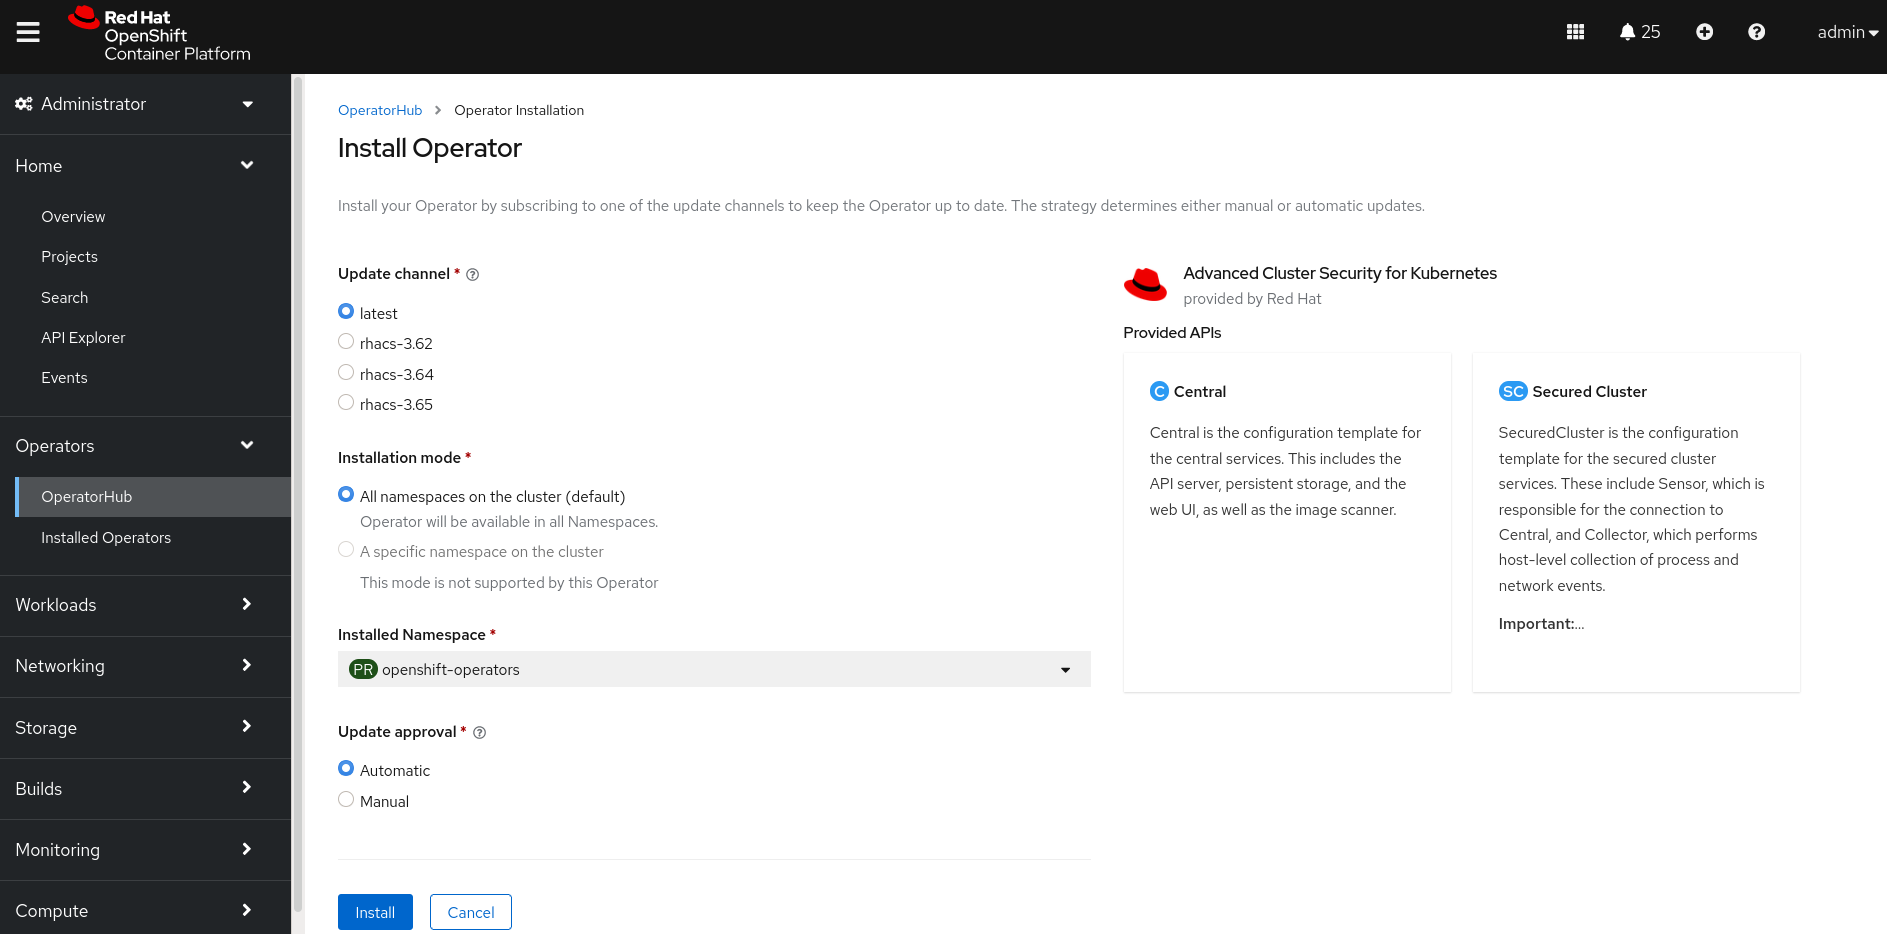
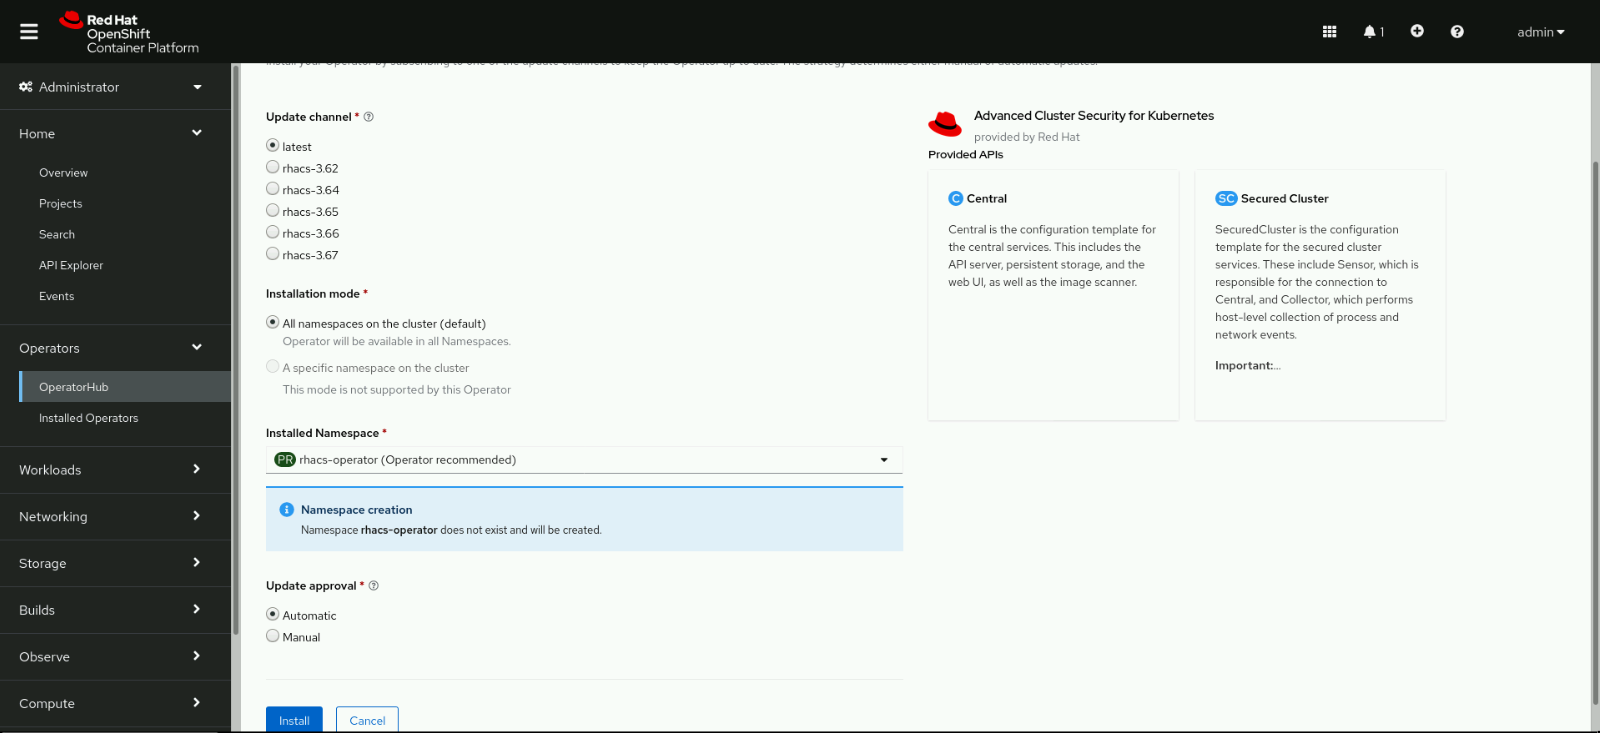
[CI] Publish Documentation for c5e71084bd609db6a1b882b1e408db1a4f43fe07 - c5e71084bd609db6a1b882b1e408db1a4f43fe07 🚀

diff --git a/acs-workshop/02-getting_started.html b/acs-workshop/02-getting_started.html
@@ -7,7 +7,7 @@
     <link rel="canonical" href="https://redhat-scholars.github.io/acs-workshop/acs-workshop/02-getting_started.html">
     <link rel="prev" href="01-setup.html">
     <link rel="next" href="03-overview-acs.html">
-    <meta name="generator" content="Antora 2.3.4">
+    <meta name="generator" content="Antora 3.0.0">
     <link rel="stylesheet" href="../_/css/site.css">
 <link rel="icon" href="../_/img/favicon.ico" type="image/x-icon">
 <link rel="stylesheet" href="https://cdnjs.cloudflare.com/ajax/libs/font-awesome/4.7.0/css/font-awesome.min.css">
@@ -334,7 +334,7 @@
     <li class="component is-current">
       <span class="title">ACS Workshop</span>
       <ul class="versions">
-        <li class="version is-current is-latest">
+        <li class="version is-current">
           <a href="index.html">master</a>
         </li>
       </ul>
@@ -428,7 +428,7 @@ Independently on how you&#8217;re installing, please deploy the deploy in the la
 </div>
 </li>
 <li>
-<p>Confirm default installation parameters (auto update, latest channel, <code>openshift-operators</code> namespace).</p>
+<p>Confirm default installation parameters (auto update, <code>latest channel</code>, <code>rhacs-operator</code> namespace).</p>
 <div class="imageblock">
 <div class="content">
 <img src="_images/install/02_install_acs_operator.png" alt="ACS Operator 3" width="800">
@@ -472,7 +472,7 @@ Independently on how you&#8217;re installing, please deploy the deploy in the la
 </ul>
 </div>
 <div class="paragraph">
-<p>Create a new <code>stackrox</code> namespace (using the web console or the cli as follows). We will install our components here.</p>
+<p>Log in to your OpenShift cluster and create a new <code>stackrox</code> namespace (using the web console or the cli as follows). We will install our components here.</p>
 </div>
 <div class="listingblock console-input">
 <div class="content">
@@ -596,7 +596,7 @@ spec:
 <div class="olist arabic">
 <ol class="arabic">
 <li>
-<p>Once the installation is complete obtain the generated admin password from the <code>central-htpasswd</code> secret.</p>
+<p>Once the installation is complete, obtain and copy the generated admin password from the <code>central-htpasswd</code> secret.</p>
 <div class="olist loweralpha">
 <ol class="loweralpha" type="a">
 <li>
@@ -643,7 +643,7 @@ spec:
 <h2 id="config_acs_securedcluster"><a class="anchor" href="#config_acs_securedcluster"></a>ACS Secured Cluster Configuration</h2>
 <div class="sectionbody">
 <div class="paragraph">
-<p>To join a cluster to ACS it is necessary to generate a cluster init bundle containing TLS secrets for Sensor, Collectors and Admission Controllers.</p>
+<p>To import a cluster into ACS, you need to generate a cluster init bundle containing TLS secrets for Sensor, Collectors, and Admission Controllers.</p>
 </div>
 <div class="sect2">
 <h3 id="config_acs_securedcluster_init_bundle"><a class="anchor" href="#config_acs_securedcluster_init_bundle"></a>Generating an init bundle by using the RHACS portal</h3>

diff --git a/acs-workshop/index.html b/acs-workshop/index.html
@@ -6,7 +6,7 @@
     <title>Welcome to Red Hat Advanced Cluster Security Workshop :: ACS Workshop</title>
     <link rel="canonical" href="https://redhat-scholars.github.io/acs-workshop/acs-workshop/index.html">
     <link rel="next" href="01-setup.html">
-    <meta name="generator" content="Antora 2.3.4">
+    <meta name="generator" content="Antora 3.0.0">
     <link rel="stylesheet" href="../_/css/site.css">
 <link rel="icon" href="../_/img/favicon.ico" type="image/x-icon">
 <link rel="stylesheet" href="https://cdnjs.cloudflare.com/ajax/libs/font-awesome/4.7.0/css/font-awesome.min.css">
@@ -333,7 +333,7 @@
     <li class="component is-current">
       <span class="title">ACS Workshop</span>
       <ul class="versions">
-        <li class="version is-current is-latest">
+        <li class="version is-current">
           <a href="index.html">master</a>
         </li>
       </ul>

diff --git a/acs-workshop/10-system_policies.html b/acs-workshop/10-system_policies.html
@@ -7,7 +7,7 @@
     <link rel="canonical" href="https://redhat-scholars.github.io/acs-workshop/acs-workshop/10-system_policies.html">
     <link rel="prev" href="09-configuration_management.html">
     <link rel="next" href="11-integrations.html">
-    <meta name="generator" content="Antora 2.3.4">
+    <meta name="generator" content="Antora 3.0.0">
     <link rel="stylesheet" href="../_/css/site.css">
 <link rel="icon" href="../_/img/favicon.ico" type="image/x-icon">
 <link rel="stylesheet" href="https://cdnjs.cloudflare.com/ajax/libs/font-awesome/4.7.0/css/font-awesome.min.css">
@@ -334,7 +334,7 @@
     <li class="component is-current">
       <span class="title">ACS Workshop</span>
       <ul class="versions">
-        <li class="version is-current is-latest">
+        <li class="version is-current">
           <a href="index.html">master</a>
         </li>
       </ul>

diff --git a/acs-workshop/09-configuration_management.html b/acs-workshop/09-configuration_management.html
@@ -7,7 +7,7 @@
     <link rel="canonical" href="https://redhat-scholars.github.io/acs-workshop/acs-workshop/09-configuration_management.html">
     <link rel="prev" href="08-compliance.html">
     <link rel="next" href="10-system_policies.html">
-    <meta name="generator" content="Antora 2.3.4">
+    <meta name="generator" content="Antora 3.0.0">
     <link rel="stylesheet" href="../_/css/site.css">
 <link rel="icon" href="../_/img/favicon.ico" type="image/x-icon">
 <link rel="stylesheet" href="https://cdnjs.cloudflare.com/ajax/libs/font-awesome/4.7.0/css/font-awesome.min.css">
@@ -334,7 +334,7 @@
     <li class="component is-current">
       <span class="title">ACS Workshop</span>
       <ul class="versions">
-        <li class="version is-current is-latest">
+        <li class="version is-current">
           <a href="index.html">master</a>
         </li>
       </ul>

diff --git a/acs-workshop/11-integrations.html b/acs-workshop/11-integrations.html
@@ -7,7 +7,7 @@
     <link rel="canonical" href="https://redhat-scholars.github.io/acs-workshop/acs-workshop/11-integrations.html">
     <link rel="prev" href="10-system_policies.html">
     <link rel="next" href="12-platform_configuration.html">
-    <meta name="generator" content="Antora 2.3.4">
+    <meta name="generator" content="Antora 3.0.0">
     <link rel="stylesheet" href="../_/css/site.css">
 <link rel="icon" href="../_/img/favicon.ico" type="image/x-icon">
 <link rel="stylesheet" href="https://cdnjs.cloudflare.com/ajax/libs/font-awesome/4.7.0/css/font-awesome.min.css">
@@ -334,7 +334,7 @@
     <li class="component is-current">
       <span class="title">ACS Workshop</span>
       <ul class="versions">
-        <li class="version is-current is-latest">
+        <li class="version is-current">
           <a href="index.html">master</a>
         </li>
       </ul>

diff --git a/acs-workshop/08-compliance.html b/acs-workshop/08-compliance.html
@@ -7,7 +7,7 @@
     <link rel="canonical" href="https://redhat-scholars.github.io/acs-workshop/acs-workshop/08-compliance.html">
     <link rel="prev" href="07-violations.html">
     <link rel="next" href="09-configuration_management.html">
-    <meta name="generator" content="Antora 2.3.4">
+    <meta name="generator" content="Antora 3.0.0">
     <link rel="stylesheet" href="../_/css/site.css">
 <link rel="icon" href="../_/img/favicon.ico" type="image/x-icon">
 <link rel="stylesheet" href="https://cdnjs.cloudflare.com/ajax/libs/font-awesome/4.7.0/css/font-awesome.min.css">
@@ -334,7 +334,7 @@
     <li class="component is-current">
       <span class="title">ACS Workshop</span>
       <ul class="versions">
-        <li class="version is-current is-latest">
+        <li class="version is-current">
           <a href="index.html">master</a>
         </li>
       </ul>

diff --git a/acs-workshop/03-overview-acs.html b/acs-workshop/03-overview-acs.html
@@ -7,7 +7,7 @@
     <link rel="canonical" href="https://redhat-scholars.github.io/acs-workshop/acs-workshop/03-overview-acs.html">
     <link rel="prev" href="02-getting_started.html">
     <link rel="next" href="04-vulnerabilities.html">
-    <meta name="generator" content="Antora 2.3.4">
+    <meta name="generator" content="Antora 3.0.0">
     <link rel="stylesheet" href="../_/css/site.css">
 <link rel="icon" href="../_/img/favicon.ico" type="image/x-icon">
 <link rel="stylesheet" href="https://cdnjs.cloudflare.com/ajax/libs/font-awesome/4.7.0/css/font-awesome.min.css">
@@ -334,7 +334,7 @@
     <li class="component is-current">
       <span class="title">ACS Workshop</span>
       <ul class="versions">
-        <li class="version is-current is-latest">
+        <li class="version is-current">
           <a href="index.html">master</a>
         </li>
       </ul>

diff --git a/acs-workshop/12-platform_configuration.html b/acs-workshop/12-platform_configuration.html
@@ -7,7 +7,7 @@
     <link rel="canonical" href="https://redhat-scholars.github.io/acs-workshop/acs-workshop/12-platform_configuration.html">
     <link rel="prev" href="11-integrations.html">
     <link rel="next" href="13-cicd.html">
-    <meta name="generator" content="Antora 2.3.4">
+    <meta name="generator" content="Antora 3.0.0">
     <link rel="stylesheet" href="../_/css/site.css">
 <link rel="icon" href="../_/img/favicon.ico" type="image/x-icon">
 <link rel="stylesheet" href="https://cdnjs.cloudflare.com/ajax/libs/font-awesome/4.7.0/css/font-awesome.min.css">
@@ -334,7 +334,7 @@
     <li class="component is-current">
       <span class="title">ACS Workshop</span>
       <ul class="versions">
-        <li class="version is-current is-latest">
+        <li class="version is-current">
           <a href="index.html">master</a>
         </li>
       </ul>

diff --git a/acs-workshop/07-violations.html b/acs-workshop/07-violations.html
@@ -7,7 +7,7 @@
     <link rel="canonical" href="https://redhat-scholars.github.io/acs-workshop/acs-workshop/07-violations.html">
     <link rel="prev" href="06-network_graph.html">
     <link rel="next" href="08-compliance.html">
-    <meta name="generator" content="Antora 2.3.4">
+    <meta name="generator" content="Antora 3.0.0">
     <link rel="stylesheet" href="../_/css/site.css">
 <link rel="icon" href="../_/img/favicon.ico" type="image/x-icon">
 <link rel="stylesheet" href="https://cdnjs.cloudflare.com/ajax/libs/font-awesome/4.7.0/css/font-awesome.min.css">
@@ -334,7 +334,7 @@
     <li class="component is-current">
       <span class="title">ACS Workshop</span>
       <ul class="versions">
-        <li class="version is-current is-latest">
+        <li class="version is-current">
           <a href="index.html">master</a>
         </li>
       </ul>

diff --git a/acs-workshop/05-risk.html b/acs-workshop/05-risk.html
@@ -7,7 +7,7 @@
     <link rel="canonical" href="https://redhat-scholars.github.io/acs-workshop/acs-workshop/05-risk.html">
     <link rel="prev" href="04-vulnerabilities.html">
     <link rel="next" href="06-network_graph.html">
-    <meta name="generator" content="Antora 2.3.4">
+    <meta name="generator" content="Antora 3.0.0">
     <link rel="stylesheet" href="../_/css/site.css">
 <link rel="icon" href="../_/img/favicon.ico" type="image/x-icon">
 <link rel="stylesheet" href="https://cdnjs.cloudflare.com/ajax/libs/font-awesome/4.7.0/css/font-awesome.min.css">
@@ -334,7 +334,7 @@
     <li class="component is-current">
       <span class="title">ACS Workshop</span>
       <ul class="versions">
-        <li class="version is-current is-latest">
+        <li class="version is-current">
           <a href="index.html">master</a>
         </li>
       </ul>

diff --git a/acs-workshop/13-cicd.html b/acs-workshop/13-cicd.html
@@ -7,7 +7,7 @@
     <link rel="canonical" href="https://redhat-scholars.github.io/acs-workshop/acs-workshop/13-cicd.html">
     <link rel="prev" href="12-platform_configuration.html">
     <link rel="next" href="14-apicli.html">
-    <meta name="generator" content="Antora 2.3.4">
+    <meta name="generator" content="Antora 3.0.0">
     <link rel="stylesheet" href="../_/css/site.css">
 <link rel="icon" href="../_/img/favicon.ico" type="image/x-icon">
 <link rel="stylesheet" href="https://cdnjs.cloudflare.com/ajax/libs/font-awesome/4.7.0/css/font-awesome.min.css">
@@ -334,7 +334,7 @@
     <li class="component is-current">
       <span class="title">ACS Workshop</span>
       <ul class="versions">
-        <li class="version is-current is-latest">
+        <li class="version is-current">
           <a href="index.html">master</a>
         </li>
       </ul>

diff --git a/acs-workshop/04-vulnerabilities.html b/acs-workshop/04-vulnerabilities.html
@@ -7,7 +7,7 @@
     <link rel="canonical" href="https://redhat-scholars.github.io/acs-workshop/acs-workshop/04-vulnerabilities.html">
     <link rel="prev" href="03-overview-acs.html">
     <link rel="next" href="05-risk.html">
-    <meta name="generator" content="Antora 2.3.4">
+    <meta name="generator" content="Antora 3.0.0">
     <link rel="stylesheet" href="../_/css/site.css">
 <link rel="icon" href="../_/img/favicon.ico" type="image/x-icon">
 <link rel="stylesheet" href="https://cdnjs.cloudflare.com/ajax/libs/font-awesome/4.7.0/css/font-awesome.min.css">
@@ -334,7 +334,7 @@
     <li class="component is-current">
       <span class="title">ACS Workshop</span>
       <ul class="versions">
-        <li class="version is-current is-latest">
+        <li class="version is-current">
           <a href="index.html">master</a>
         </li>
       </ul>
